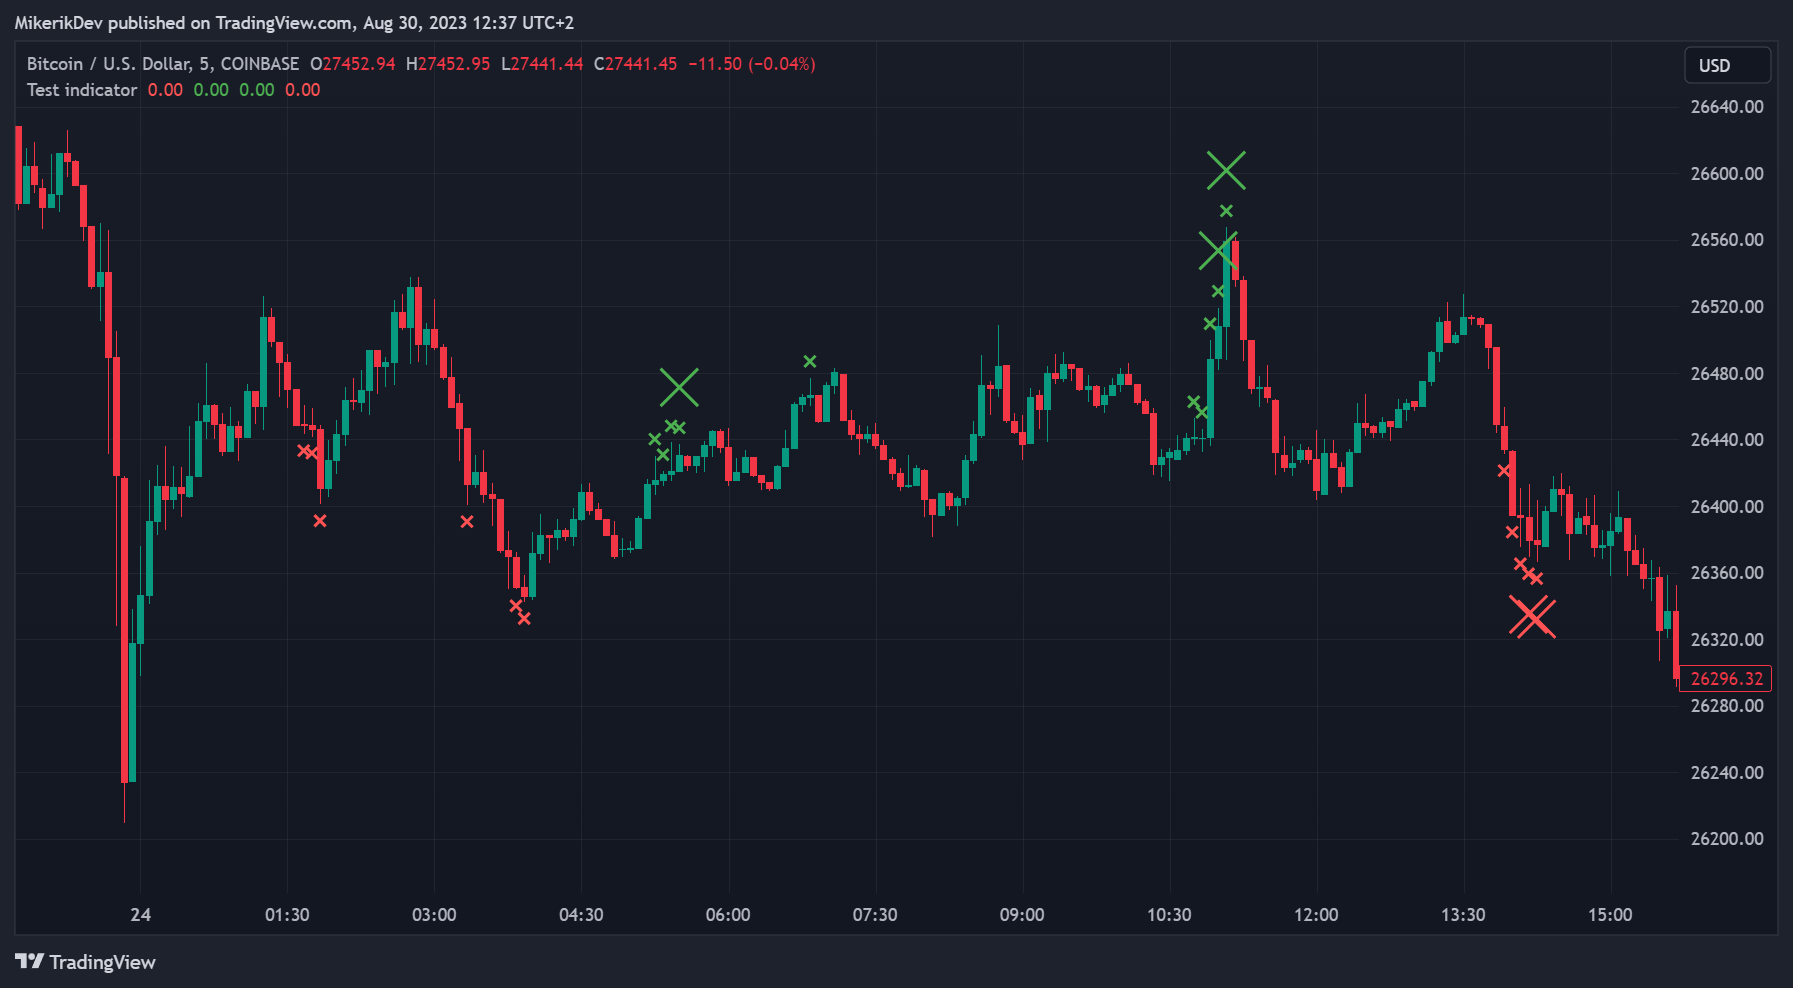
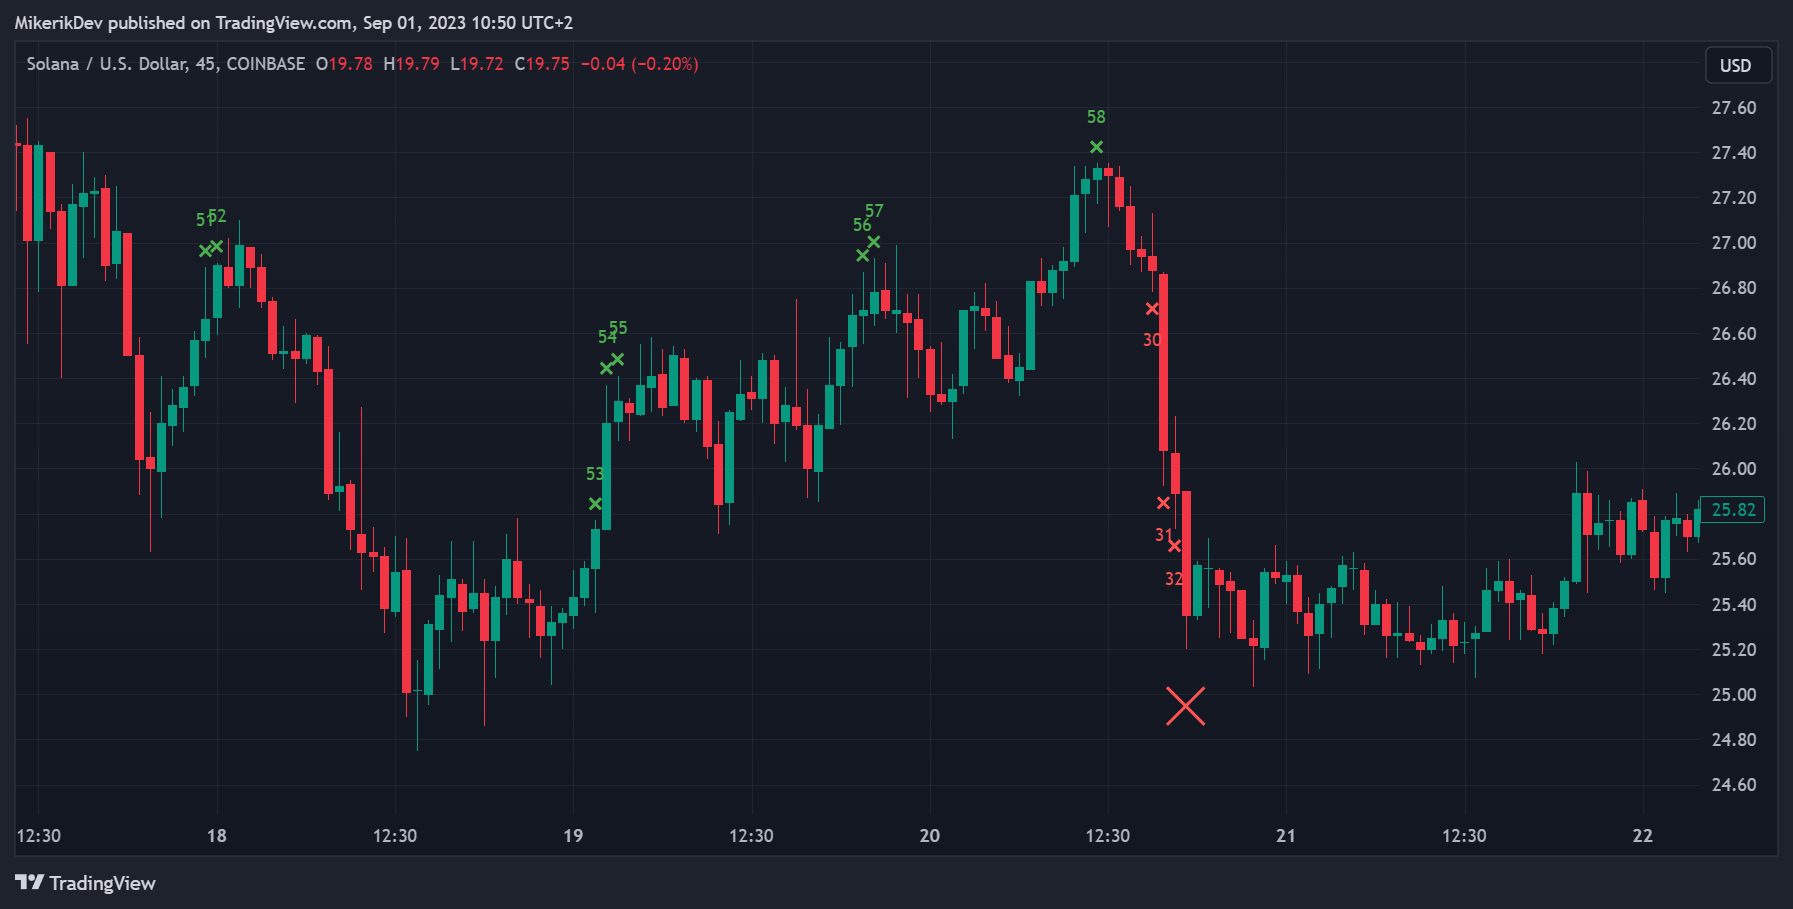
v 1.1

diff --git a/Sequence Indicator/readme.md b/Sequence Indicator/readme.md
@@ -5,3 +5,7 @@ larger crosses will begin to appear.
 
 ## Indicator Visualization
 ![Showcase](img.png)
+
+## Change log
+* 1.0 - First release
+* 1.1 - Removed small crosses beneath the larger ones. Also added numbers above small crosses (not really usefull yet)
